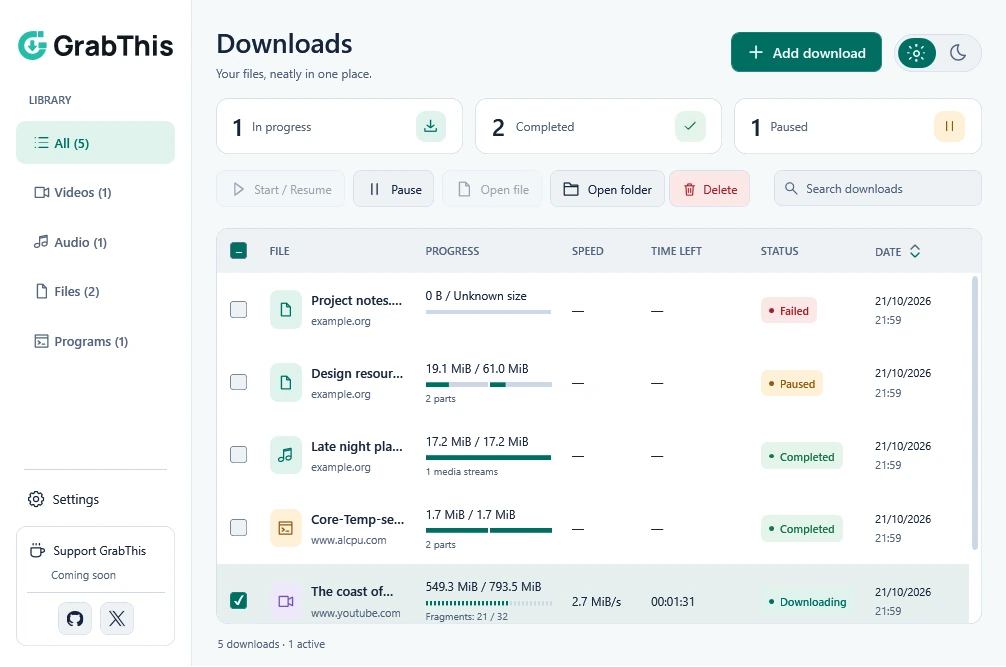
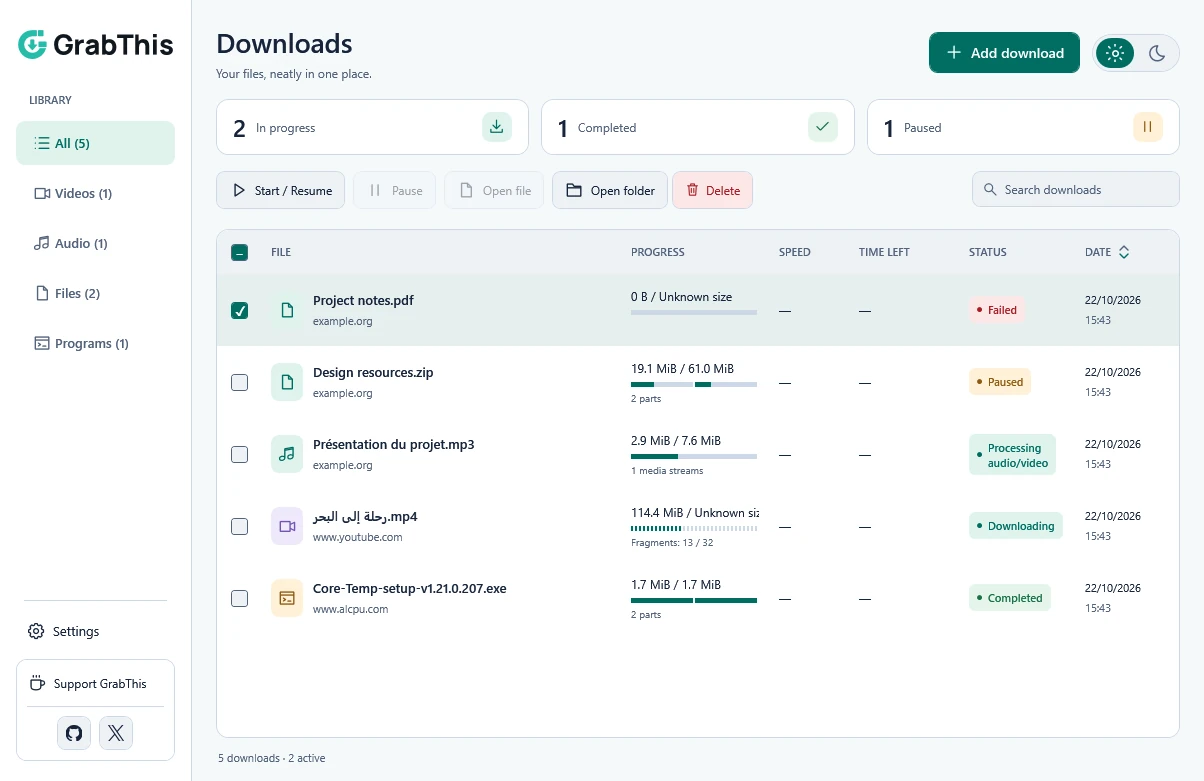
Present GrabThis with illustrated setup and live media screenshots

diff --git a/README.md b/README.md
@@ -1,48 +1,97 @@
-# GrabThis Download Manager
+<div align="center">
+  <picture>
+    <source media="(prefers-color-scheme: dark)" srcset=".github/assets/logo-dark.svg">
+    <source media="(prefers-color-scheme: light)" srcset=".github/assets/logo-light.svg">
+    <img src=".github/assets/logo-light.svg" alt="GrabThis" width="240">
+  </picture>
+  <h1>GrabThis Download Manager</h1>
+  <p><strong>Your downloads. Under control.</strong><br>Files, video and MP3 — the tools you need in one straightforward app.</p>
+  <p><a href="https://github.com/Godchi872/GrabThis/releases/download/v0.1.36/GrabThis-0.1.36-Setup.exe"><strong>Download for Windows</strong></a> · <a href="https://grabthis.vercel.app/">Website</a> · <a href="docs/BROWSER-SETUP.md">Browser setup</a> · <a href="#screenshots">Screenshots</a></p>
+  <p>Free to use &nbsp; · &nbsp; Windows x64 &nbsp; · &nbsp; English / Français / العربية</p>
+</div>
 
-Your downloads. Under control.
+<picture>
+  <source media="(prefers-color-scheme: dark)" srcset=".github/assets/app-dark.webp">
+  <source media="(prefers-color-scheme: light)" srcset=".github/assets/app-light.webp">
+  <img src=".github/assets/app-dark.webp" alt="GrabThis download library with example files" width="1204">
+</picture>
 
-[Website](https://grabthis.vercel.app/) · [Download](https://github.com/Godchi872/GrabThis/releases) · [Browser setup](docs/BROWSER-SETUP.md) · [Support on Ko-fi](https://ko-fi.com/grabthis)
+## What you can do
 
-![GrabThis desktop interface with example files](.github/assets/app-dark.webp)
+| Tool | What it does |
+| --- | --- |
+| **Capture browser downloads** | Send eligible HTTP(S) files to GrabThis, with Start, Cancel and Download in browser choices. |
+| **Choose video formats** | A floating button gives you the available MP4 and MP3 options for the current video. |
+| **Stay in control** | Pause and resume supported downloads, manage connections, and set a speed limit. |
+| **Convert video to MP3** | Convert a local video inside the app while keeping the original file. |
+| **Keep things organized** | Categories, search, date sorting and multiple selection for your library. |
+| **Make it yours** | Light/dark appearance, three languages, completion notifications and tray controls. |
 
-GrabThis brings the important download tools together in a simple interface: automatic browser capture, pause and resume, video formats, and MP3 conversion.
+## Install in a few clicks
 
-## Features
+1. Download **[GrabThis-0.1.36-Setup.exe](https://github.com/Godchi872/GrabThis/releases/download/v0.1.36/GrabThis-0.1.36-Setup.exe)** and open it.
+2. Choose the installation folder. Setup prepares the video tools and browser connection automatically. An internet connection is needed for about 105 MB of verified tools.
+3. Open **GrabThis** from the Desktop or Windows Start Menu shortcut.
+4. Add the browser companion using the **[illustrated browser guide](docs/BROWSER-SETUP.md)**.
 
-- Capture eligible HTTP(S) downloads with a clear Start / Cancel / Download in browser confirmation.
-- Pause and resume supported sources, choose automatic connections, and set a speed limit.
-- Select available MP4 and MP3 options from a floating video button. YouTube prepares formats automatically; other supported sites inspect after a click.
-- Convert local videos to MP3 without changing the original file.
-- Organize videos, audio, files and programs, search history, and manage several downloads together.
-- Light and dark appearance, English / Français / العربية, completion notifications and a notification-area icon.
+No terminal, administrator account or .NET SDK is required. The installer is an unsigned preview. [Release notes and checksums](https://github.com/Godchi872/GrabThis/releases/tag/v0.1.36) are available with the download. Choose **Setup.exe**, rather than GitHub’s automatically generated Source code archives.
 
-## Download and install
+## Add the browser companion
 
-Download **[GrabThis-0.1.36-Setup.exe](https://github.com/Godchi872/GrabThis/releases/download/v0.1.36/GrabThis-0.1.36-Setup.exe)** for Windows x64.
+Both extension folders are installed beside the app. **Start Menu → GrabThis → Browser extensions** opens the Chrome/Edge folder.
 
-1. Open Setup.exe and choose the installation folder. It downloads and verifies the video tools (about 105 MB) and registers the local browser connection automatically.
-2. Open **GrabThis** from the Desktop or Windows Start Menu shortcut. No terminal, .NET SDK or administrator account is required.
-3. Follow the [browser setup guide](docs/BROWSER-SETUP.md). Both extension folders are installed beside the app; **Start Menu → GrabThis → Browser extensions** opens the Chrome/Edge folder.
+| Chrome / Edge | Firefox |
+| --- | --- |
+| Enable Developer mode, click Load unpacked, and select **extension**. | The included **extension-firefox** folder is a temporary development preview. Permanent installation requires the signed store version. |
+| [Four steps with highlighted screenshots →](docs/BROWSER-SETUP.md#chrome--edge) | [Firefox instructions →](docs/BROWSER-SETUP.md#firefox) |
 
-The window X hides GrabThis in the notification area; use its tray menu’s Exit to quit. Uninstalling preserves your download history, preferences and downloaded files.
+<a href="docs/BROWSER-SETUP.md"><img src=".github/assets/guides/02-load-unpacked.png" alt="Chrome Extensions page with Load unpacked outlined in orange" width="900"></a>
 
-This is an unsigned preview build. Available video formats depend on the source; protected/private media and browser-only sessions may be unsupported. Resume and multiple connections require source support. This release contains the Windows x64 application. The older ZIP is retained as an advanced portable option; GitHub’s Source code archives contain documentation, not the app.
+Companion version: **0.1.21**. Setup registers the desktop connection automatically; installing the extension in each browser still requires your approval.
 
-## Browser companion
+## Screenshots
 
-Chrome and Edge currently use **Developer mode → Load unpacked**, with instructions in the package. The companion version in this release is **0.1.21**.
+### A floating button on your video
 
-Firefox store submission is in progress. Until the signed listing is publicly available, the included unsigned Firefox package is a development preview; its temporary installation disappears when Firefox restarts. The setup guide identifies this limitation. No Android version is distributed.
+These images show the real GrabThis companion on public videos, with formats returned by the desktop app. Click an image to view it at full size.
 
-## Feedback
+| YouTube | Instagram | TikTok |
+| --- | --- | --- |
+| [![GrabThis on YouTube](.github/assets/guides/youtube-floating.png)](.github/assets/guides/youtube-floating.png) | [![GrabThis on Instagram](.github/assets/guides/instagram-floating.png)](.github/assets/guides/instagram-floating.png) | [![GrabThis on TikTok](.github/assets/guides/tiktok-floating.png)](.github/assets/guides/tiktok-floating.png) |
+| Automatically prepares formats for the main video. | Click to inspect the current Reel. | Click to inspect the chosen video, without fetching the whole feed. |
 
-Report a reproducible issue or suggest a feature in [Issues](https://github.com/Godchi872/GrabThis/issues). Include the app/companion versions and steps to reproduce. Avoid posting cookies, private URLs, access tokens or your download database.
+<details>
+<summary><strong>See the available video qualities up close</strong></summary>
 
-This repository contains public release downloads, documentation and issue tracking. The desktop application's source is maintained separately. Third-party software retains its own licenses; included runtime notices are shipped with the application, and the video setup downloads upstream tools directly.
+![Available formats on the example YouTube video](.github/assets/guides/video-qualities.png)
 
-## Support
+These qualities belong to this example video. Available formats depend on the source; MP3 conversion is performed by the desktop app.
 
-GrabThis is free to use. Optional support: [ko-fi.com/grabthis](https://ko-fi.com/grabthis).
+</details>
 
-[Privacy information](https://grabthis.vercel.app/privacy/)
+<details>
+<summary><strong>See the light appearance</strong></summary>
+
+![GrabThis in light appearance with example files](.github/assets/app-light.webp)
+
+</details>
+
+[Screenshot sources and credits](docs/SCREENSHOTS.md)
+
+## Help and feedback
+
+- **[Report a bug](https://github.com/Godchi872/GrabThis/issues/new/choose)** with your app/companion versions and steps to reproduce it.
+- **Desktop app disconnected?** Open GrabThis, run Setup again to repair the connection, then reload the extension. [More help](docs/BROWSER-SETUP.md#troubleshooting).
+- **Window X:** hides GrabThis in the notification area. Choose Exit from the tray menu to quit.
+
+Formats and resume support depend on the source. Protected, login-only, POST, blob and browser-only sessions may be unavailable or remain in the browser. Uninstalling preserves download history, preferences and downloaded files.
+
+## Support GrabThis
+
+GrabThis is free to use. You can **[support its development](https://ko-fi.com/grabthis)** if it helps you.
+
+---
+
+This repository hosts official release downloads, documentation and issue tracking. Desktop source is maintained separately. Third-party tools retain their own licenses; runtime notices are included with the app, and Setup downloads video tools from their upstream releases. The current downloadable app is for Windows x64.
+
+[Website](https://grabthis.vercel.app/) · [Privacy](https://grabthis.vercel.app/privacy/) · [Changelog](CHANGELOG.md)

diff --git a/docs/BROWSER-SETUP.md b/docs/BROWSER-SETUP.md
@@ -1,27 +1,70 @@
-# Connect your browser
+# Add GrabThis to your browser
 
-Install GrabThis using **Setup.exe**. It registers the local Chrome, Edge and Firefox connection automatically. Open GrabThis from the Desktop or Start Menu shortcut.
+Install the desktop app with **[GrabThis Setup.exe](https://github.com/Godchi872/GrabThis/releases/download/v0.1.36/GrabThis-0.1.36-Setup.exe)** first. Setup registers the local browser connection automatically.
+
+Open **Start Menu → GrabThis → Browser extensions**. Copy the folder address from File Explorer; you will select this folder in step 3.
 
 ## Chrome / Edge
 
-1. Open **Start Menu → GrabThis → Browser extensions**. Copy the folder address from File Explorer.
-2. Open chrome://extensions in Chrome, or edge://extensions in Edge.
-3. Enable Developer mode, choose Load unpacked and select that **extension** folder containing manifest.json. Both extension and extension-firefox are beside Idman.exe in the installation folder.
-4. Keep GrabThis Download Companion enabled and allow site access for the websites you use. Its popup should report the desktop app as connected.
-5. After installing an updated GrabThis version, click the circular Reload arrow in its extension card and check its version. The page-wide Update button does not fetch new files for an unpacked extension.
+The screenshots use Chrome. Edge follows the same steps at **edge://extensions**.
 
-Private windows require a separate Allow in Incognito / InPrivate permission in the extension’s Details.
+### 1. Turn on Developer mode
+
+Open **chrome://extensions** in Chrome, or **edge://extensions** in Edge. Turn on the switch outlined in orange at the top right.
+
+![Step 1: Developer mode highlighted with rectangle number 1](../.github/assets/guides/01-developer-mode.png)
+
+### 2. Click Load unpacked
+
+The button appears after Developer mode is enabled. Click the highlighted **Load unpacked** button.
+
+![Step 2: Load unpacked highlighted with rectangle number 2](../.github/assets/guides/02-load-unpacked.png)
+
+### 3. Choose the extension folder
+
+In the folder picker, select **extension** inside the installed GrabThis folder. You can paste the address copied from File Explorer. Select the folder itself; it contains **manifest.json**. Choose **extension**, rather than **extension-firefox** or the installer file.
+
+This diagram identifies the folder to choose; it is not a screenshot of a browser dialog. A custom installation path may differ from the default shown.
+
+![Folder diagram: select extension inside the installed GrabThis folder](../.github/assets/guides/03-extension-folder.png)
+
+### 4. Check that GrabThis is enabled
+
+The **GrabThis Download Companion** card should appear with its switch on. Open the desktop app. The companion’s toolbar popup should show the desktop app as connected.
+
+![Step 4: enabled GrabThis switch highlighted with rectangle number 4](../.github/assets/guides/04-extension-ready.png)
+
+Allow site access for the websites you use. Private windows require a separate **Allow in Incognito / InPrivate** permission in the extension’s Details.
+
+### Updating the extension
+
+Install the updated GrabThis version, then click the circular **Reload** arrow inside its extension card and check the version. The page-wide Update button does not download new files for an unpacked extension.
 
 ## Firefox
 
-Setup registers the Firefox native connection automatically. The signed Firefox store listing is not yet confirmed as available. The unsigned preview can be tested through about:debugging#/runtime/this-firefox → Load Temporary Add-on → extension-firefox/manifest.json in the installed application folder. Firefox removes temporary add-ons when it restarts. Do not disable signing checks. The public store link will replace these preview instructions once available.
+Setup registers the Firefox native connection automatically. The signed Firefox store listing is not yet confirmed as available.
+
+For the included temporary development preview:
+
+1. Open **about:debugging#/runtime/this-firefox**.
+2. Choose **Load Temporary Add-on**.
+3. Select **extension-firefox/manifest.json** beside the installed app.
+
+Firefox removes temporary add-ons when it restarts. Permanent installation requires Mozilla signing. The public store link will be added once available; do not disable signing checks.
 
 ## Troubleshooting
 
-If disconnected, open GrabThis, rerun **Setup.exe** to repair the connection and reload the extension. Refresh an already-open video page if an old message remains. Another download manager may intercept a request first.
+**Desktop app disconnected:** open GrabThis, rerun Setup.exe to repair the connection and reload the extension. Refresh an already-open video page if an old message remains.
 
-Ordinary GET file downloads can be captured. POST, blob, protected/login-only and browser-only downloads may remain in the browser or be unavailable. Very fast Firefox files may finish before capture.
+**A file stays in the browser:** another download manager may intercept it first. POST, blob, protected/login-only and browser-only sessions may remain in the browser or be unavailable. Very fast Firefox files may finish before capture.
+
+**A video has different qualities:** formats depend on the source. YouTube prepares the main video automatically; other sites inspect the selected video after you click the button.
 
 ## Français / العربية
 
-Open **Browser setup guide** from GrabThis’s Start Menu folder for the included English, French and Arabic instructions. Localized website guides: https://grabthis.vercel.app/fr/#setup and https://grabthis.vercel.app/ar/#setup.
+The same illustrated guide is available on the localized website:
+
+- [Français](https://grabthis.vercel.app/fr/#chrome-setup)
+- [العربية](https://grabthis.vercel.app/ar/#chrome-setup)
+
+Open the Chrome/Edge setup section to see the numbered images. The included **Browser setup guide** in GrabThis’s Start Menu folder also contains English, French and Arabic instructions.

diff --git a/docs/SCREENSHOTS.md b/docs/SCREENSHOTS.md
@@ -1,0 +1,13 @@
+# Screenshot notes and credits
+
+Desktop screenshots show the real application with example download rows, not personal download history.
+
+The browser guide uses actual Chrome Extensions screens from an isolated documentation profile. Orange rectangles and numbered callouts identify the controls. The folder-selection picture is a labelled diagram, not a recreated browser or Windows dialog. Edge uses the same workflow at edge://extensions.
+
+Media screenshots show the production companion on actual public pages, with format inspection through the real native host. No format results or site layouts were fabricated. Available formats belong to the example sources and are not guaranteed for every video.
+
+- YouTube: [Big Buck Bunny 60fps 4K — Official Blender Foundation Short Film](https://www.youtube.com/watch?v=aqz-KE-bpKQ), Blender Foundation.
+- Instagram: [Public animation Reel by tigerbacon](https://www.instagram.com/reel/DSI2aqwAide/).
+- TikTok: [Public video example](https://www.tiktok.com/@luuux..abdullah/video/7653601301460159764).
+
+Video content, platform names and marks belong to their respective owners. Screenshots illustrate the GrabThis browser companion; no platform endorsement is implied.
